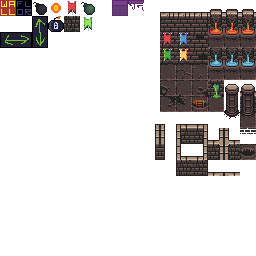
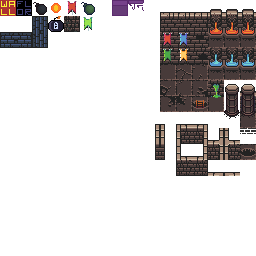
Retexture mover sprites

Changed region(s): [[0.0, 0.0625, 0.1875, 0.1875]]

diff --git a/Assets/Scripts/Scene/SceneLogic.cs b/Assets/Scripts/Scene/SceneLogic.cs
@@ -69,6 +69,7 @@ namespace Scene
             GUI.Label(
                 new Rect(10, 10, 100, 20),
                 $"Bombs: ({_bombsPlaced}/{bombMax})");
+            Debug.Log("Screen Height : " + Screen.height);
         }
     }
 }
